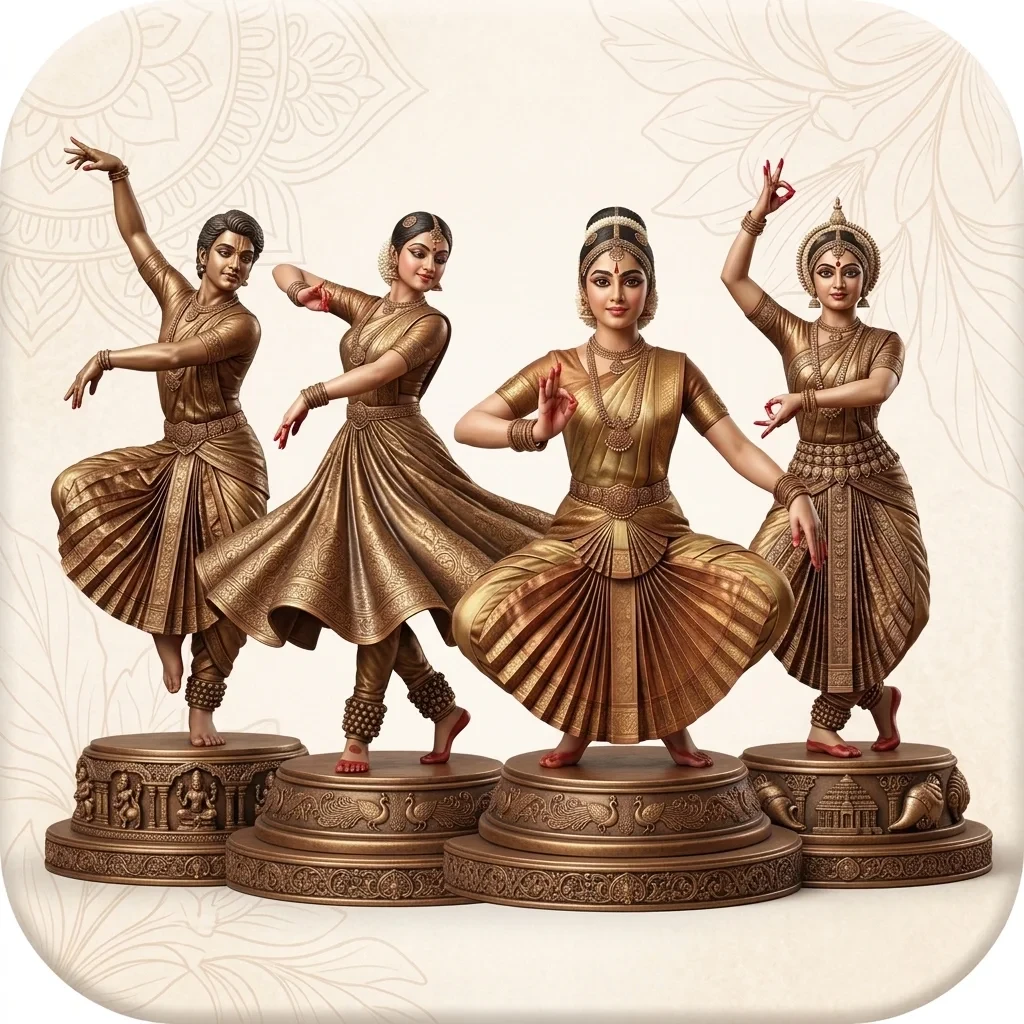
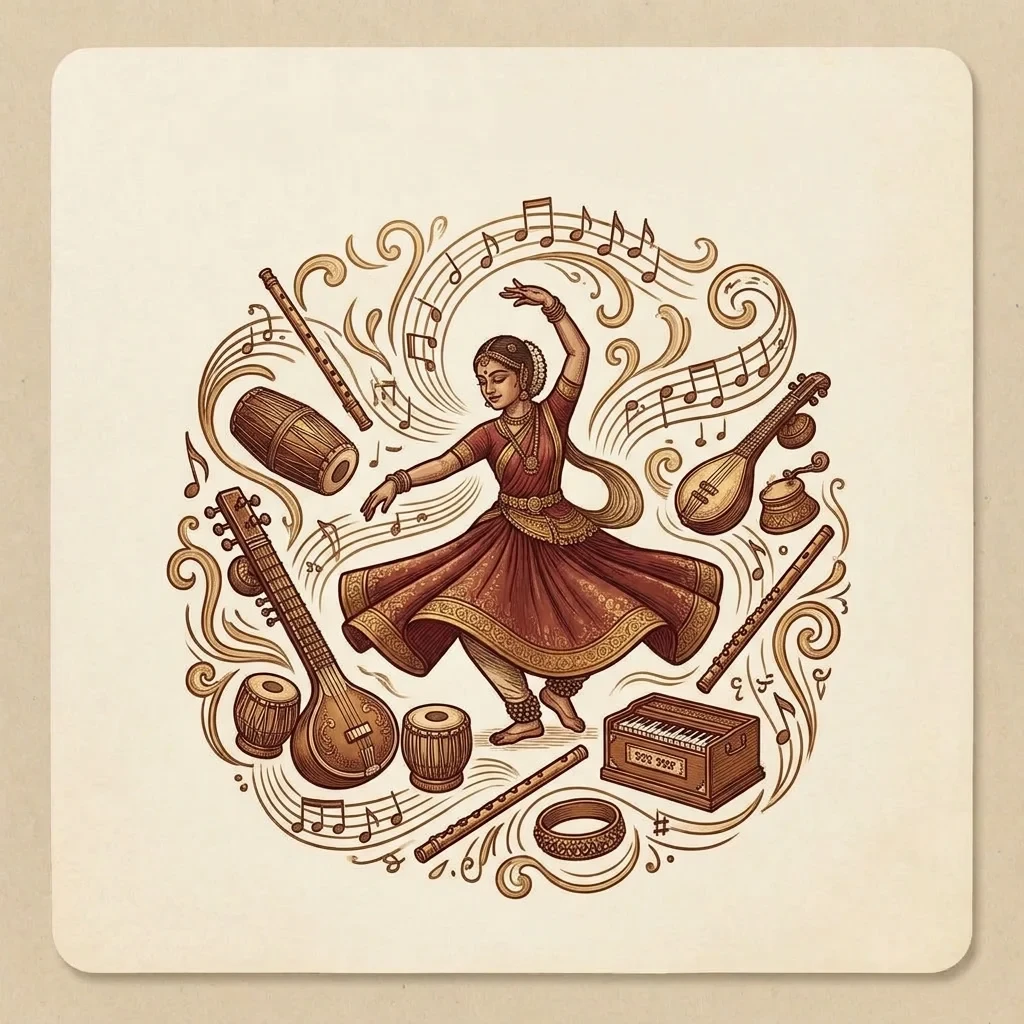
Use the dancer-and-instruments illustration for Dance, Music & Sangeetham
Replaces the four-statue group as the category icon; that one is kept as
design/source-sheets/category-dance-music-statues.webp.

diff --git a/design/README.md b/design/README.md
@@ -40,8 +40,9 @@ To use a photo instead of a drawing, copy it to `public/categories/` and point `
   (each centered on a cream tile). In use: 2 Kathak, 4 Odissi, 5 Kuchipudi. Spare for future styles: 1 (male
   dancer), 3 (aramandi, like Bharatanatyam), 6 (wide fan skirt), 7 (saree-draped, e.g. Mohiniyattam), 8 (crowned
   folk dancer, e.g. Kathakali or Yakshagana).
-- `source-sheets/category-dance-music.webp`: the four-dancer group, used as the Dance, Music & Sangeetham
-  category icon (`public/categories/DANCE_MUSIC.png`).
+- `source-sheets/category-dance-music.webp`: the dancer among instruments, used as the Dance, Music & Sangeetham
+  category icon (`public/categories/DANCE_MUSIC.png`). The earlier four-statue group is kept as
+  `category-dance-music-statues.webp`.
 - `source-sheets/cultural-icons.jpg`: 22 sketch-style cultural tiles, cut to `cultural-icons/01-…png` … `22-…png`
   (each centered on its own cream square). In use: 01 Bharatanatyam, 04 Kathak, 05 Percussion, 09 Griha pravesh,
   11 Satyanarayana vratam, 13 Indian languages, 14 Jewelry, 15 Kuchipudi (dancing on the brass plate), 18
